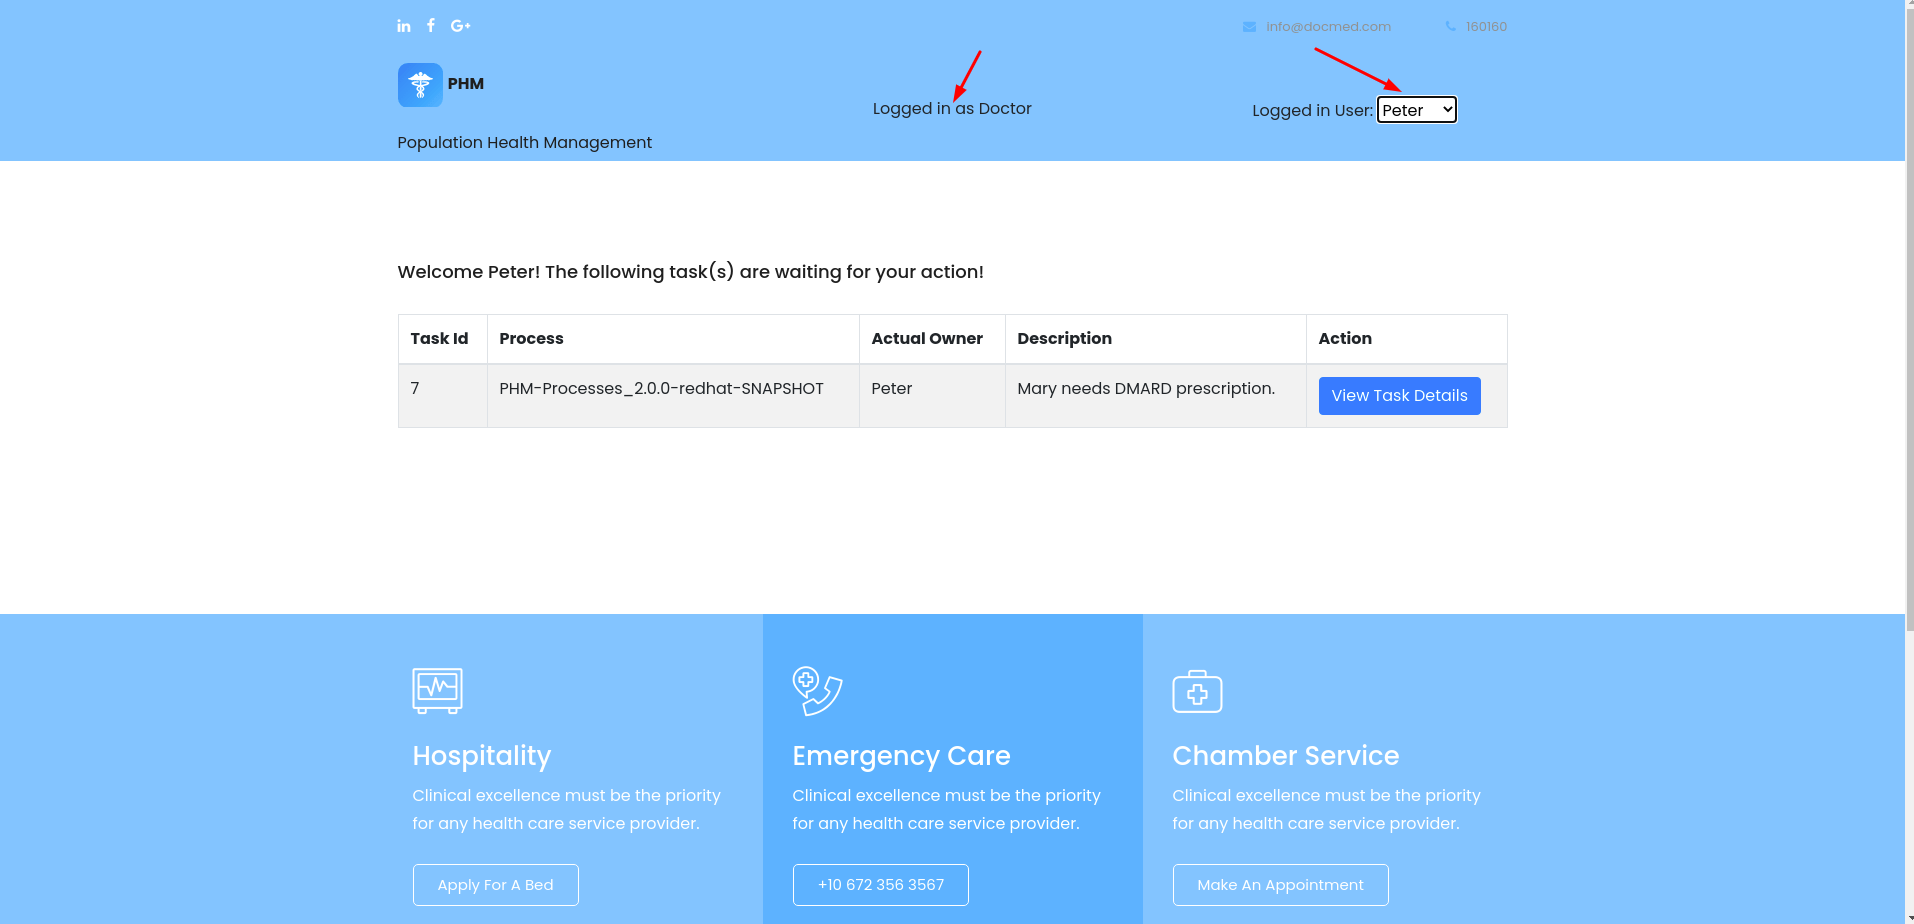
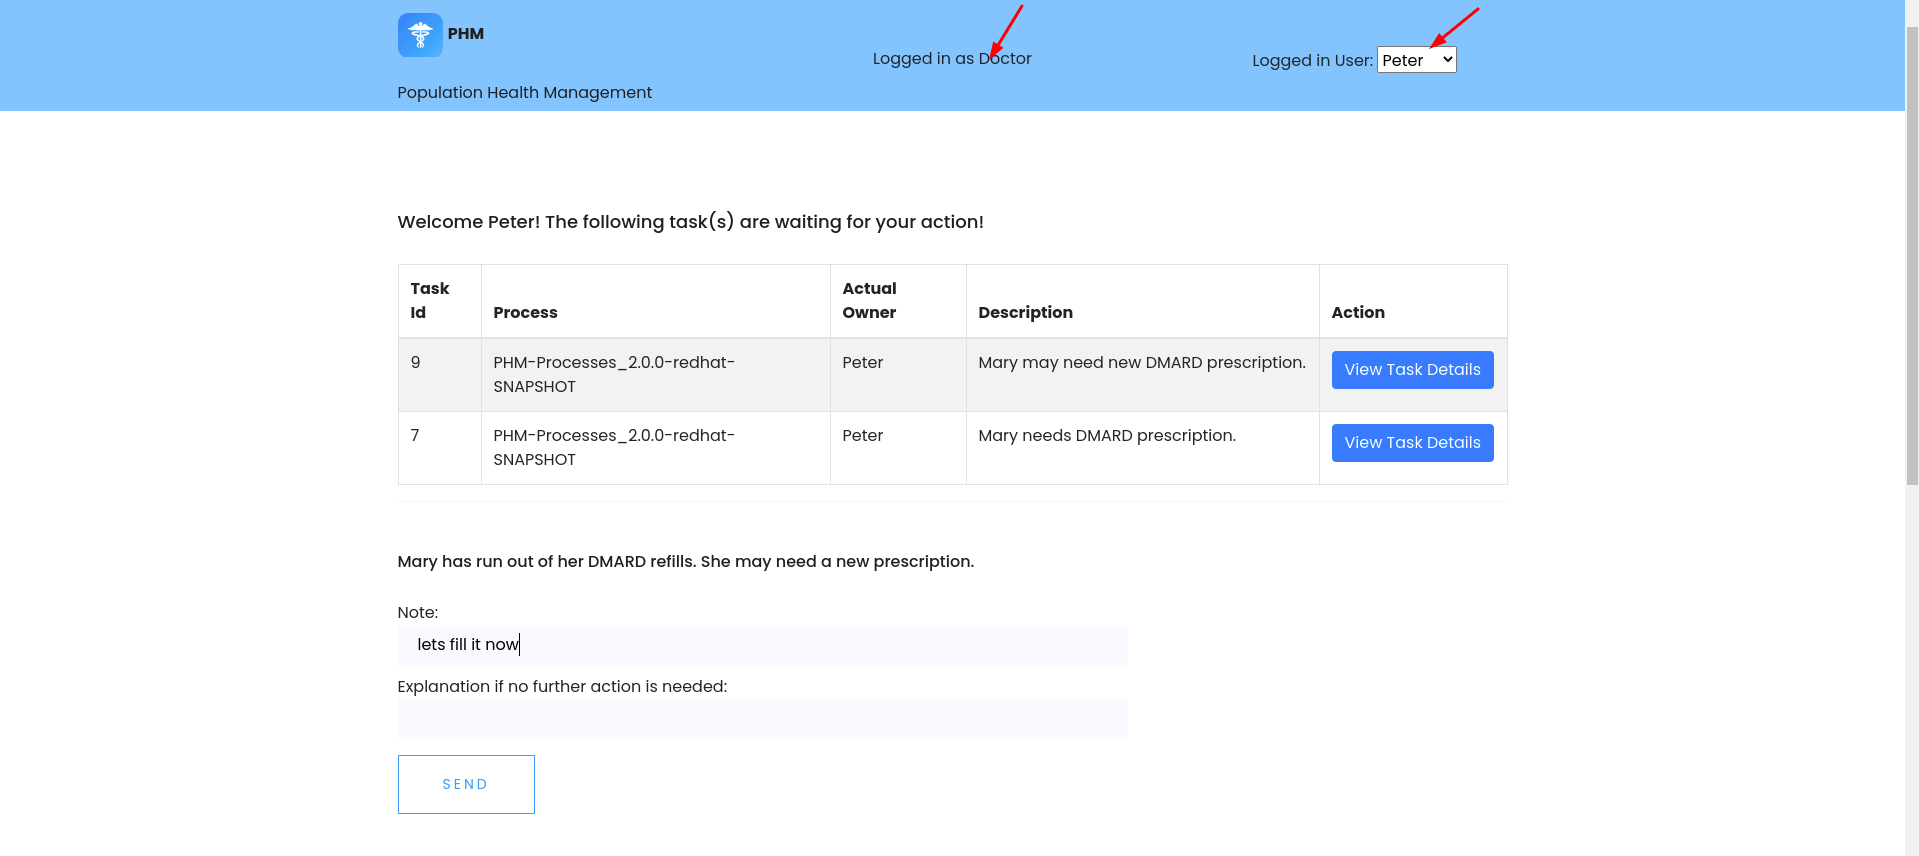
Readme

diff --git a/README.md b/README.md
@@ -3,8 +3,12 @@
 This is a simple UI application which will be used to demonstrate the [Population Health Management System Demo](https://github.com/mauriziocarioli/PHM-Processes)
 
 This application has two UI screens. One provides an administrative view which can be used to demonstrate the login for a Doctor(Peter), Charlie(Insurance Channel Worker) and Robert(Pharmacist).
+The screen can be accessed at http://localhost:8037/static/phm_management.html
 
 ![](https://raw.githubusercontent.com/snandakumar87/phm-management-ui/master/src/main/resources/readmeimages/PHM_admin.png)
 
 The `Logged in User` lets us switch between the 3 different users. For example, when choosing the Doctor's perspective, you will see the screen as below.
 
+![](https://raw.githubusercontent.com/snandakumar87/phm-management-ui/master/src/main/resources/readmeimages/PHM_admin_doc.png)
+
+The second UI screen provides a customer view which is more informational in nature.
